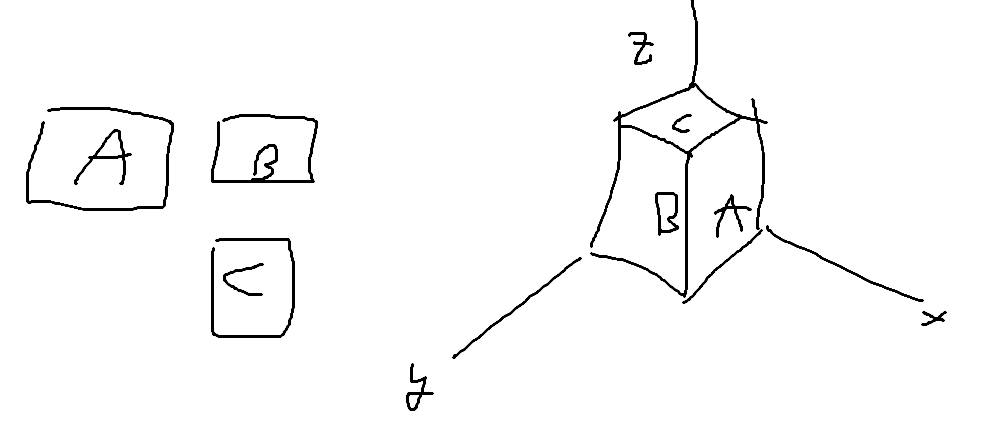
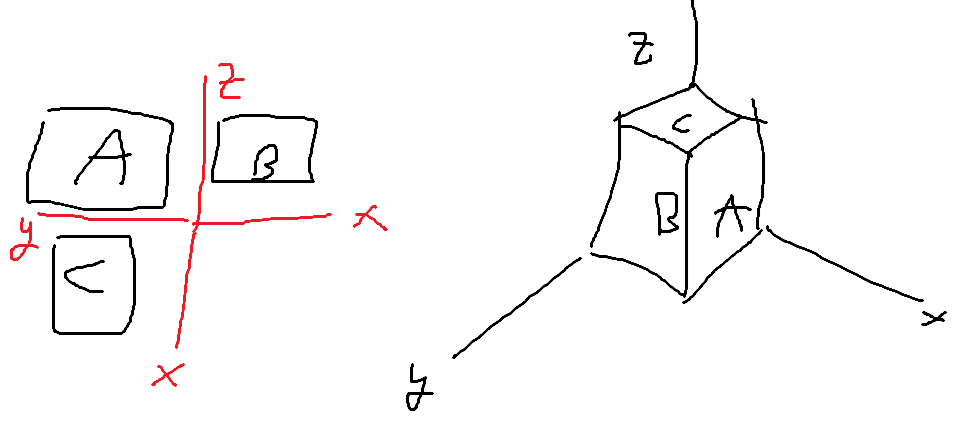
Se ha creado el concepto de las proyecciones iso. a unos modelos 3D.

diff --git a/pseudo.py b/pseudo.py
@@ -1,0 +1,118 @@
+from math import cos, sin, radians
+import cv2
+import numpy as np
+import matplotlib.pyplot as plt
+
+
+
+"""
+
+
+Los límites de las rectas de cada plano son la distancia en px de la proy correspondiente
+Alzado: b1, r || x
+Planta: b2, r || z
+Perfil: b3, r || y
+Donde r empieza en un punto (píxel en negro (0, 0, 0) ) de las proyecciones transformadas (isométricas) de b1, b2, b3 respectivamente.
+
+
+"""
+
+
+class GeneradorProyecciones:
+    def __init__(self, ruta, tam_celda=16, escala=1.0):
+        # Cargar imagen y verificar
+        self.img = cv2.imread(ruta, cv2.IMREAD_GRAYSCALE)
+        if self.img is None:
+            raise FileNotFoundError(f"No se encuentra la imagen en: {ruta}")
+            
+        self.celda = tam_celda
+        self.escala = escala
+        self.k_iso = np.sqrt(2/3) # Coeficiente de reducción isométrico
+        
+        # Invertir: Fondo blanco (0), Dibujo negro (255)
+        _, self.binaria = cv2.threshold(self.img, 200, 255, cv2.THRESH_BINARY_INV)
+
+    def analizar_vista(self, region):
+        """Detecta si hay dibujo en cada celda de la región."""
+        h, w = region.shape
+        filas, cols = h // self.celda, w // self.celda
+        grid = np.zeros((filas, cols), dtype=bool)
+        
+        for f in range(filas):
+            for c in range(cols):
+                sub_img = region[f*self.celda:(f+1)*self.celda, c*self.celda:(c+1)*self.celda]
+                # Umbral de detección: si más del 5% de la celda es negra
+                if np.sum(sub_img > 0) > (self.celda * self.celda * 0.05):
+                    grid[f, c] = True
+        return grid
+
+    def construir(self):
+        h, w = self.binaria.shape
+        mh, mw = h // 2, w // 2
+        
+        # Extracción de vistas según disposición estándar:
+        # Alzado (Z, X) | Perfil (Z, Y)
+        # -----------------------------
+        # Planta (Y, X) | (Vacío/Inglete)
+        
+        m_alzado = self.analizar_vista(self.binaria[0:mh, 0:mw])
+        m_perfil = self.analizar_vista(self.binaria[0:mh, mw:])
+        m_planta = self.analizar_vista(self.binaria[mh:, 0:mw])
+
+        # Dimensiones lógicas
+        nz, nx = m_alzado.shape      # Alzado da Alto(Z) y Ancho(X)
+        _, ny = m_perfil.shape       # Perfil da Alto(Z) y Profundidad(Y)
+        
+        voxels = np.zeros((nx, ny, nz), dtype=bool)
+
+        for x in range(nx):
+            for y in range(ny):
+                for z in range(nz):
+                    # Invertimos Z para que el índice 0 de la imagen sea la base del objeto
+                    idx_z = (nz - 1) - z
+                    
+                    # CORRECCIÓN DE MAPEO:
+                    # Alzado usa [Z, X]
+                    # Perfil usa [Z, Y]
+                    # Planta usa [Y, X]
+                    if m_alzado[idx_z, x] and m_perfil[idx_z, y] and m_planta[y, x]:
+                        voxels[x, y, z] = True
+
+        if not np.any(voxels):
+            print("Advertencia: No se generó ningún voxel. Revisa el tamaño de celda o la alineación.")
+            
+        self.render(voxels)
+
+    def render(self, voxels):
+        fig = plt.figure(figsize=(10, 8))
+        ax = fig.add_subplot(111, projection='3d')
+
+        tam_real = self.celda * self.escala * self.k_iso
+
+        # Crear malla de coordenadas
+        x, y, z = np.indices(np.array(voxels.shape) + 1).astype(float)
+        x *= tam_real
+        y *= tam_real
+        z *= tam_real
+
+        # Dibujar voxels
+        ax.voxels(x, y, z, voxels, edgecolor='black', facecolors='#1f77b4', alpha=0.8)
+
+        ax.set_title(f"Reconstrucción 3D (Escala: {self.escala})")
+        ax.set_xlabel('Ancho (X)')
+        ax.set_ylabel('Profundidad (Y)')
+        ax.set_zlabel('Alto (Z)')
+        
+        # Forzar aspecto cúbico para no deformar la pieza
+        max_dim = max(voxels.shape) * tam_real
+        ax.set_xlim(0, max_dim)
+        ax.set_ylim(0, max_dim)
+        ax.set_zlim(0, max_dim)
+        
+        ax.view_init(elev=30, azim=135) # Ángulo mejorado para ver la escalera
+        plt.show()
+
+# Ejecución
+# Nota: Asegúrate de que "imagen_aa4ca1.png" esté en el mismo directorio o ajusta la ruta.
+gen = GeneradorProyecciones("assets/bloques/prueba1.png", tam_celda=1, escala=1.0)
+gen.construir()
